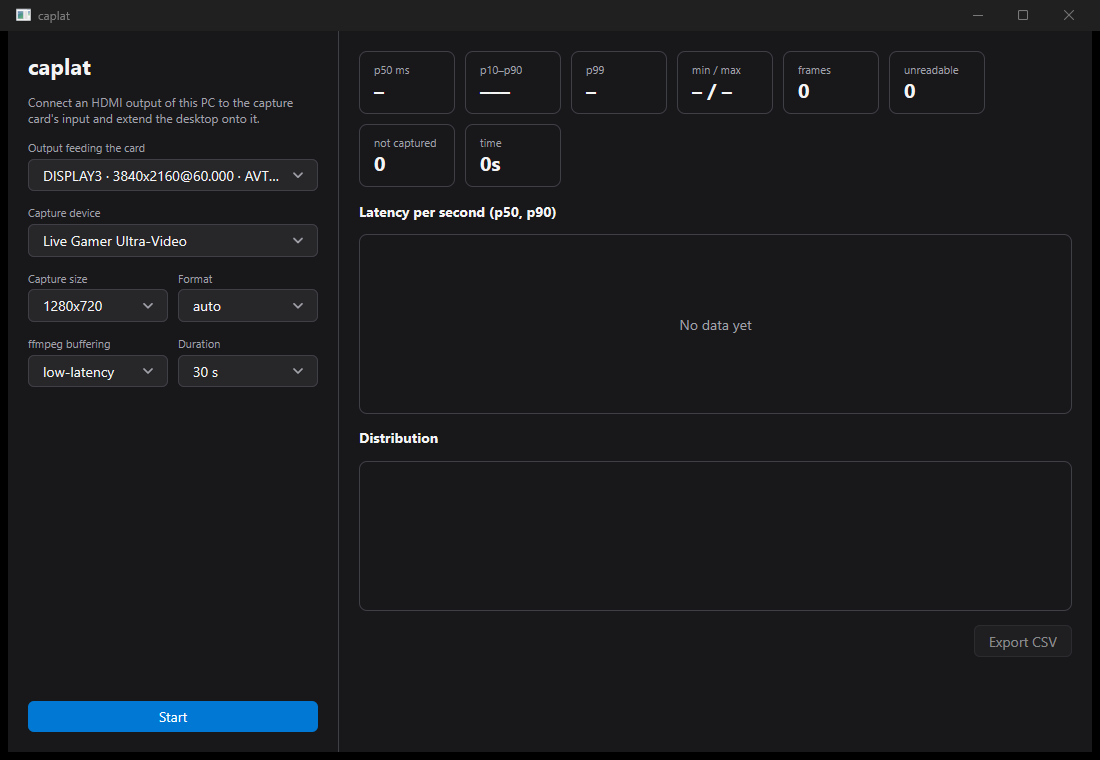
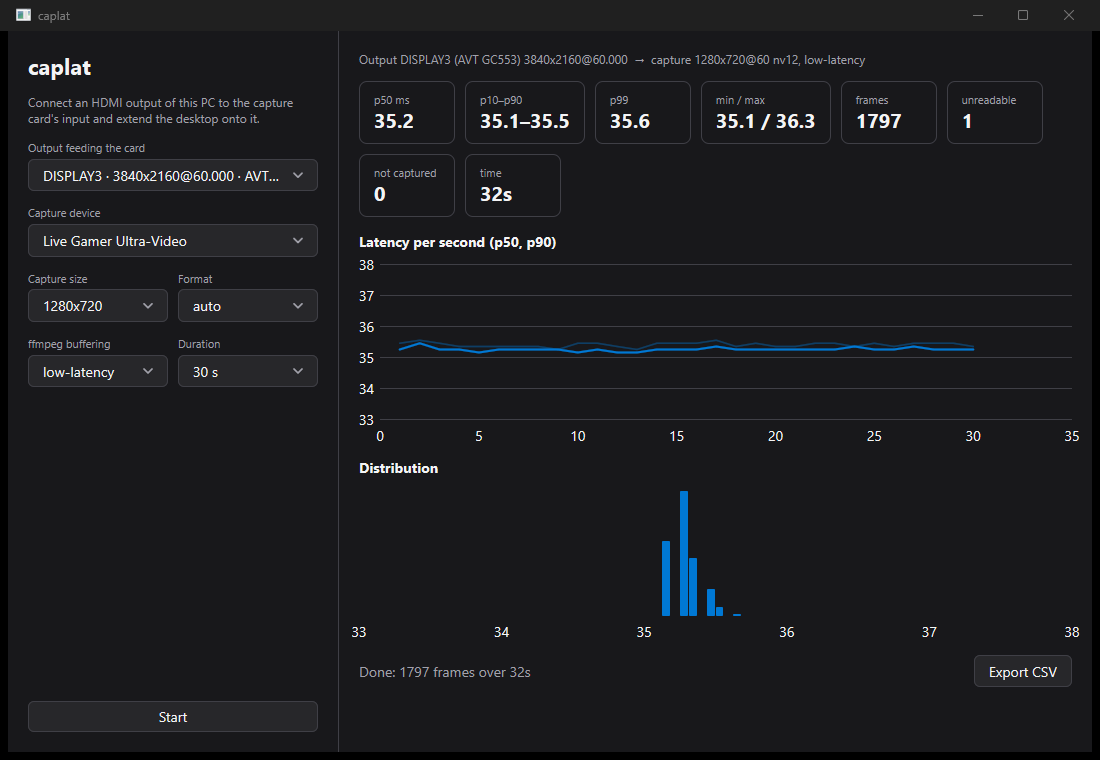
Keep the display awake, stop when the barcode is hidden, reject mismatches
A 30-minute run broke after the display powered off (15 min idle): Present
then returns DXGI_STATUS_OCCLUDED without waiting for vsync, the presenter
raced ahead and produced a negative "latency".

- SetThreadExecutionState keeps displays on and the system awake while the
  presenter runs.
- An occluded Present ends the run with an error that says why.
- A pair that arrived before its vblank counts as mismatched, not as a
  sample.
- README: long runs step up by exactly one frame after a stall and stay
  there; a smaller -rtbufsize does not prevent it. GUI screenshot of a run.

diff --git a/internal/win/user32.go b/internal/win/user32.go
@@ -26,6 +26,7 @@ var (
 	procGetModuleHandleW              = modKernel32.NewProc("GetModuleHandleW")
 	procQueryPerformanceCounter       = modKernel32.NewProc("QueryPerformanceCounter")
 	procQueryPerformanceFrequency     = modKernel32.NewProc("QueryPerformanceFrequency")
+	procSetThreadExecutionState       = modKernel32.NewProc("SetThreadExecutionState")
 )
 
 // Window messages and styles used by the presenter.
@@ -42,6 +43,19 @@ const (
 	WS_EX_TOPMOST = 0x00000008
 	PM_REMOVE     = 0x0001
 )
+
+// KeepAwake keeps the displays on and the system awake (no screen saver, no
+// display power-off, no sleep) until the returned function is called. A
+// display that switches off mid-run stops showing the barcode.
+func KeepAwake() (restore func()) {
+	const (
+		esSystemRequired  = 0x00000001
+		esDisplayRequired = 0x00000002
+		esContinuous      = 0x80000000
+	)
+	procSetThreadExecutionState.Call(esContinuous | esSystemRequired | esDisplayRequired)
+	return func() { procSetThreadExecutionState.Call(esContinuous) }
+}
 
 // QPC returns QueryPerformanceCounter.
 func QPC() int64 {

diff --git a/internal/win/dxgi.go b/internal/win/dxgi.go
@@ -3,6 +3,7 @@
 package win
 
 import (
+	"errors"
 	"unsafe"
 
 	"golang.org/x/sys/windows"
@@ -129,8 +130,20 @@ type SwapChain struct{ Object }
 
 // Present presents the back buffer.
 func (s SwapChain) Present(syncInterval, flags uint32) error {
-	return hr(s.call(vtSwapChainPresent, uintptr(syncInterval), uintptr(flags)))
+	r := s.call(vtSwapChainPresent, uintptr(syncInterval), uintptr(flags))
+	if HRESULT(r) == DXGI_STATUS_OCCLUDED {
+		return ErrOccluded
+	}
+	return hr(r)
 }
+
+// DXGI_STATUS_OCCLUDED is a success code Present returns when nothing was
+// shown: the window is covered or minimized, or the display is asleep. It
+// then no longer waits for vsync.
+const DXGI_STATUS_OCCLUDED HRESULT = 0x087A0001
+
+// ErrOccluded reports a Present that showed nothing.
+var ErrOccluded = errors.New("the barcode window is not being shown (display asleep, window covered, or display switched off)")
 
 // GetBuffer returns back buffer i as an ID3D11Texture2D.
 func (s SwapChain) GetBuffer(i uint32) (Object, error) {

diff --git a/internal/measure/matcher.go b/internal/measure/matcher.go
@@ -20,6 +20,7 @@ type Counts struct {
 	OnlyCapture uint64 // captured, no vblank time for it
 	DecodeFail  uint64 // captured frames whose barcode did not decode (after the first one did)
 	Captured    uint64 // captured frames read
+	Mismatched  uint64 // paired, but arrived before its vblank (not counted as samples)
 }
 
 type pending struct {
@@ -140,6 +141,12 @@ func (m *Matcher) tryPair(f uint64, p *pending) {
 		return
 	}
 	p.matched = true
+	if p.arrive < p.vblank {
+		// Arrived before it was shown: two frames were confused (e.g. the
+		// presenter raced ahead while its window was hidden). Not a sample.
+		m.counts.Mismatched++
+		return
+	}
 	if m.onPair != nil {
 		m.onPair(Sample{Frame: f, VblankQPC: p.vblank, ArriveQPC: p.arrive,
 			LatencyMS: float64(p.arrive-p.vblank) / m.freq})

diff --git a/internal/present/present_windows.go b/internal/present/present_windows.go
@@ -60,6 +60,8 @@ func wndProc(hwnd uintptr, msg uint32, wp, lp uintptr) uintptr {
 func Run(ctx context.Context, cfg Config) error {
 	runtime.LockOSThread()
 	defer runtime.UnlockOSThread()
+	// SetThreadExecutionState is per thread: call it on this locked thread.
+	defer win.KeepAwake()()
 	procOnce.Do(func() { wndProcCB = win.NewWndProc(wndProc) })
 	aborted.Store(false)
 
@@ -150,6 +152,9 @@ func Run(ctx context.Context, cfg Config) error {
 		tex.Release()
 
 		if err := sc.Present(1, 0); err != nil {
+			if errors.Is(err, win.ErrOccluded) {
+				return err
+			}
 			return fmt.Errorf("present: %w (was the display unplugged?)", err)
 		}
 		if pc, err := sc.GetLastPresentCount(); err == nil {

diff --git a/cmd/caplat/main.go b/cmd/caplat/main.go
@@ -231,7 +231,7 @@ func printSetup(s caplat.Setup) {
 func printResult(r caplat.Result) {
 	c := r.Counts
 	fmt.Printf("\nlatency vblank -> arrival over %s\n  %s\n", round(r.Elapsed), caplat.FormatStats(r.Total))
-	fmt.Printf("  captured %d frames, barcode unreadable %d, presented but not captured %d, captured without vblank %d\n",
-		c.Captured, c.DecodeFail, c.OnlyVblank, c.OnlyCapture)
+	fmt.Printf("  captured %d frames, barcode unreadable %d, presented but not captured %d, captured without vblank %d, mismatched %d\n",
+		c.Captured, c.DecodeFail, c.OnlyVblank, c.OnlyCapture, c.Mismatched)
 	fmt.Printf("  output %s, capture %s\n", r.Setup.OutputMode, r.Setup.CaptureMode)
 }

diff --git a/internal/measure/measure_test.go b/internal/measure/measure_test.go
@@ -111,3 +111,13 @@ func TestMatcherExpires(t *testing.T) {
 		t.Fatal("expired frames not counted")
 	}
 }
+
+func TestMatcherRejectsNegative(t *testing.T) {
+	var got []Sample
+	m := NewMatcher(freq, func(s Sample) { got = append(got, s) })
+	m.Captured(7, true, 1000)
+	m.Vblank(7, 5000) // shown after it arrived: confusion, not a sample
+	if len(got) != 0 || m.Counts().Mismatched != 1 {
+		t.Fatalf("got %v counts %+v", got, m.Counts())
+	}
+}

diff --git a/README.md b/README.md
@@ -59,6 +59,21 @@ read-ahead never drains, because frames are then read exactly as fast as
 they arrive: one or two frames of extra latency, chosen at random each time
 the capture starts, plus about a frame of jitter.
 
+### Long runs: one frame that never comes back
+
+Over minutes the low-latency capture of the GC553 sometimes steps from
+35 ms to 52 ms, exactly one frame more, and stays there until the capture is
+restarted. It happened at random (after 15 s in one run, 95 s in another, not
+at all in a third), and every time a short CPU stall triggered it on purpose.
+Shrinking ffmpeg's real-time buffer (`-rtbufsize 2M`) does not prevent it,
+so the extra frame is queued below ffmpeg, in DirectShow or the driver. Any
+software reading the card this way can carry that frame; a long `--interval`
+run shows it as a step.
+
+caplat keeps the display awake during a run and stops with an error if the
+barcode stops being shown (display asleep, window covered), instead of
+measuring garbage.
+
 ## Install
 
 You need [ffmpeg](https://ffmpeg.org/download.html) on your `PATH` (for now;
